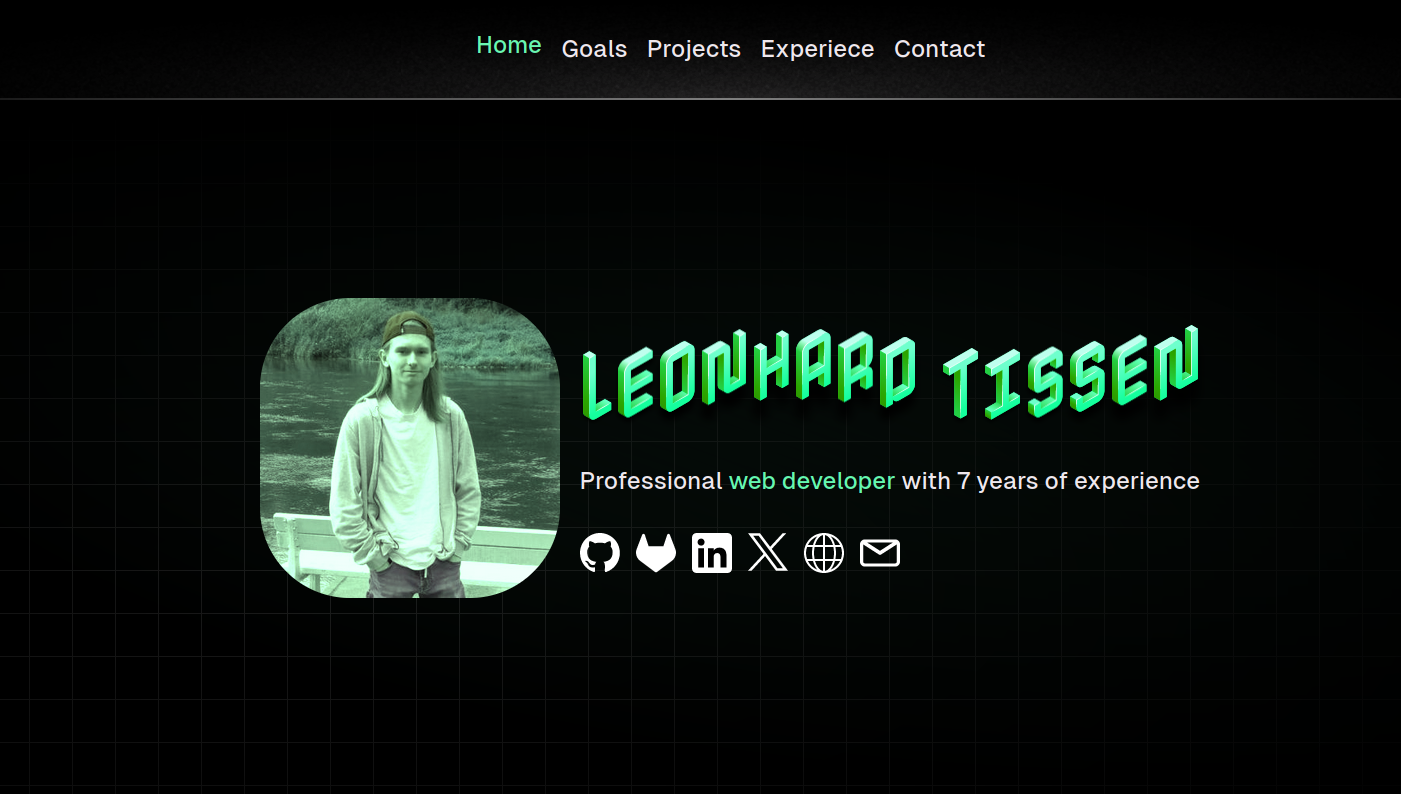
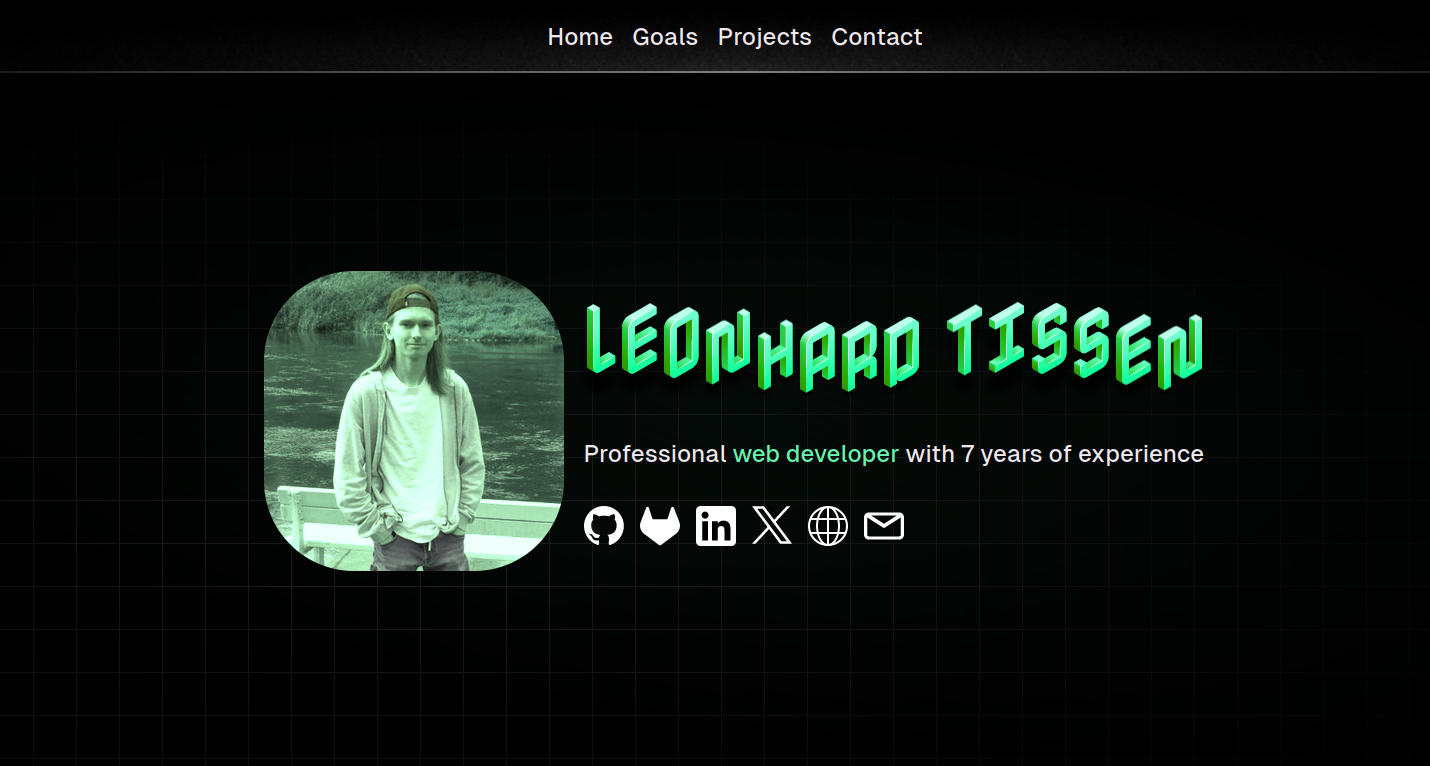
Removed "Experience" Page

Changed region(s): [[0.1842, 0.3303, 0.8594, 0.7507], [0.1228, 0.03, 0.9208, 0.1501]]

diff --git a/src/components/NavContainer.vue b/src/components/NavContainer.vue
@@ -3,7 +3,6 @@
 		<NavItem name="Home" url="home"/>
 		<NavItem name="Goals" url="goals"/>
 		<NavItem name="Projects" url="projects"/>
-		<NavItem name="Experiece" url="experience"/>
 		<NavItem name="Contact" url="contact"/>
 	</div>
 </template>

diff --git a/src/App.vue b/src/App.vue
@@ -9,9 +9,6 @@
 	<div class="page selected" id="projects">
 		<MyProjects/>
 	</div>
-	<div class="page selected" id="experience">
-
-	</div>
 	<div class="page selected" id="contact">
 		<ContactMe/>
 	</div>
